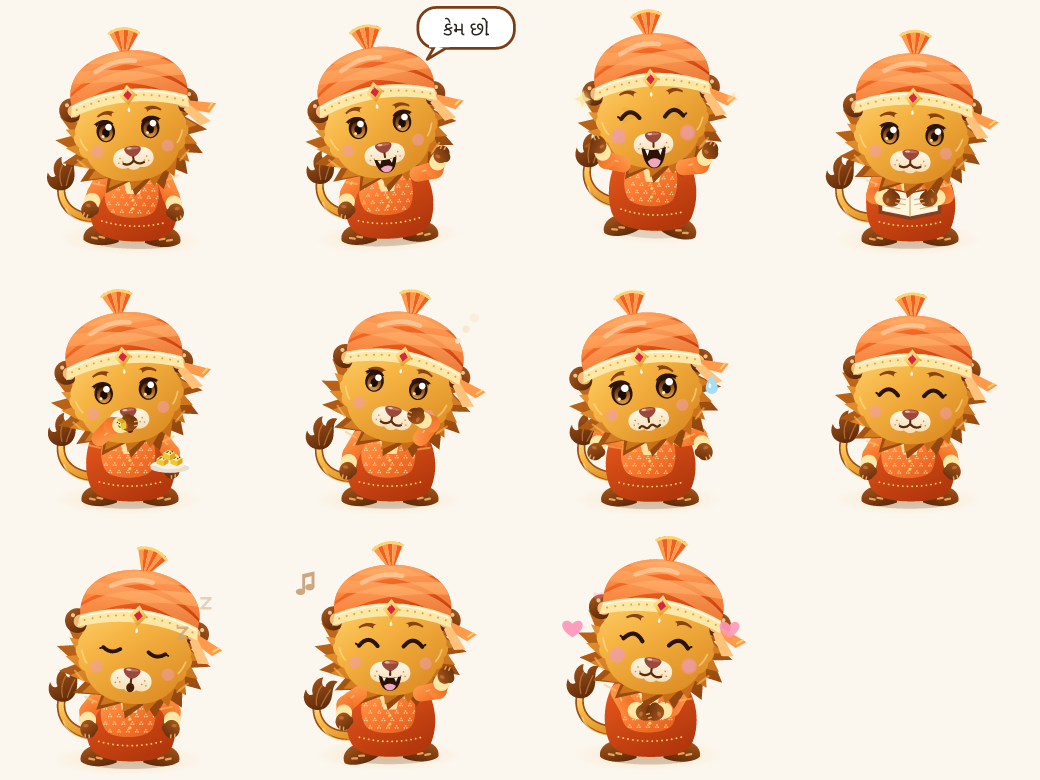
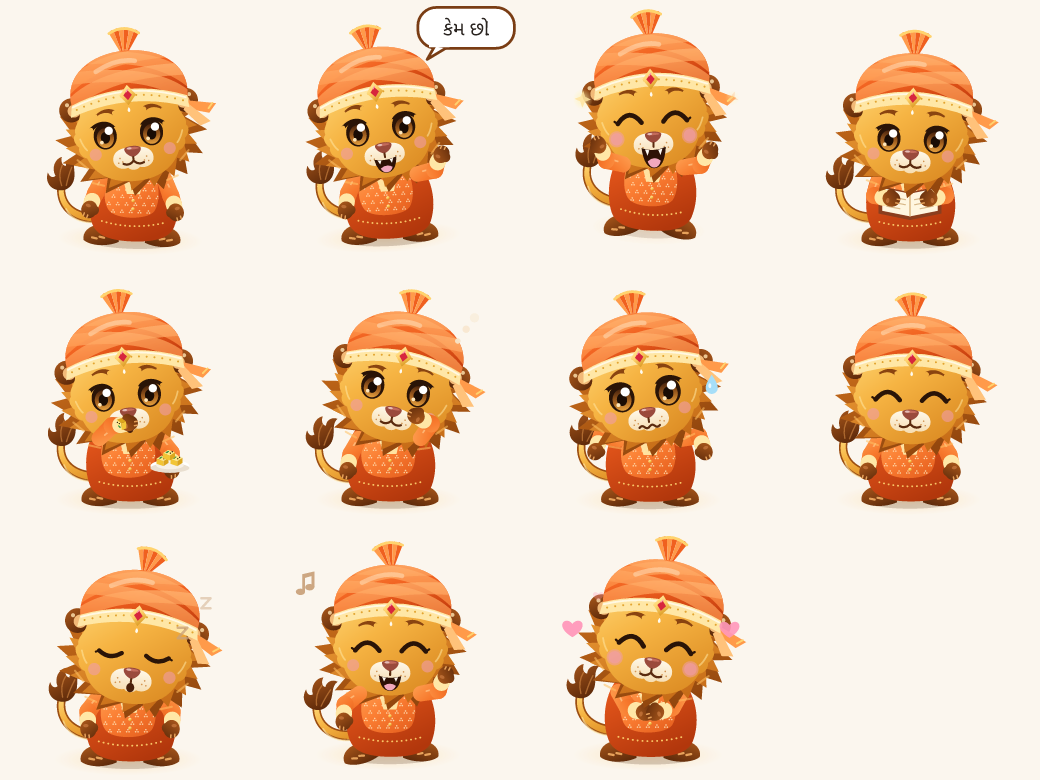
Give Kesar bigger eyes and a real wink
The beads are a quarter larger and sit a little lower on the face, with
the brows and blush moved to make room. Cheer now cuts cleanly between
the happy and squeezed eyes instead of fading through both, and the wave
wink closes into a happy arc rather than squashing the eye flat.

diff --git a/src/mascot/rig.ts b/src/mascot/rig.ts
@@ -260,18 +260,19 @@ const patches = `
     ${dots([[114, 142], [117, 146.5], [112, 147.5], [146, 142], [143, 146.5], [148, 147.5]], 1, '#D39552')}
   </g>`;
 
-const blush = `<g fill="#F09BB0" opacity=".55"><circle cx="92" cy="133" r="6.5"/><circle cx="168" cy="133" r="6.5"/></g>`;
-const blushHot = `<g fill="#F09BB0" opacity=".5"><circle cx="92" cy="133" r="8.5"/><circle cx="168" cy="133" r="8.5"/></g>`;
+const blush = `<g fill="#F09BB0" opacity=".55"><circle cx="90" cy="136" r="6.5"/><circle cx="170" cy="136" r="6.5"/></g>`;
+const blushHot = `<g fill="#F09BB0" opacity=".5"><circle cx="90" cy="136" r="8.5"/><circle cx="170" cy="136" r="8.5"/></g>`;
 
 // Tufted brows: thick at the inner end, tapering out.
-const browL = `<path d="${taper([113.5, 95], [108, 91], [101.5, 91], [95, 96], 5.4, 1.8)}" fill="${BROW}"/>`;
+const browL = `<path d="${taper([114, 93], [108.5, 89], [101.5, 89], [94.5, 94], 5.6, 1.9)}" fill="${BROW}"/>`;
 const browR = mirror(browL);
 
 // Bead eyes: a dark rim, an amber iris that warms toward the bottom, a dark
 // pupil, two highlights, and an upper lid that thickens toward the outer corner.
 const LID = taper([-8.6, -6.4], [-4.2, -12.9], [5, -12.9], [11.6, -6.6], 2, 3.4);
+const EYE_Y = 116;
 const bead = (x: number, outer: number) => `
-  <g transform="translate(${x} 111)">
+  <g transform="translate(${x} ${EYE_Y}) scale(1.25)">
     <ellipse rx="10" ry="11.5" fill="${EYE}"/>
     <ellipse cy="1.6" rx="7.4" ry="8.6" fill="url(#k-iris)"/>
     <ellipse cy="1.4" rx="4" ry="5" fill="#1A0C04"/>
@@ -281,11 +282,13 @@ const bead = (x: number, outer: number) => `
   </g>`;
 
 const happyEyes =
-  stroke('M96 115Q106 102 116 115M144 115Q154 102 164 115', EYE, 4.4) + stroke('M96 115l-3.4-2.2M164 115l3.4-2.2', EYE, 2.2);
+  stroke('M92 120Q105 103 118 120M142 120Q155 103 168 120', EYE, 5) + stroke('M92 120l-3.6-2.4M168 120l3.6-2.4', EYE, 2.4);
 const closedEyes =
-  stroke('M97 112Q106 119 115 112M145 112Q154 119 163 112', EYE, 4) + stroke('M97 112l-3.2 1.4M163 112l3.2 1.4', EYE, 2);
+  stroke('M93 116Q105 125 117 116M143 116Q155 125 167 116', EYE, 4.6) + stroke('M93 116l-3.4 1.6M167 116l3.4 1.6', EYE, 2.2);
 // Squeezed shut with glee: > <
-const squeezeEyes = stroke('M99 104.5L111 111L99 117.5M161 104.5L149 111L161 117.5', EYE, 4.4);
+const squeezeEyes = stroke('M98 107.5L113 116L98 124.5M162 107.5L147 116L162 124.5', EYE, 5);
+// A happy arc for the winking eye.
+const winkR = stroke('M143 119Q155 105 167 119', EYE, 5) + stroke('M167 119l3.6-2.4', EYE, 2.4);
 
 // A broad, rosy lion nose and a Y-shaped mouth; the grin shows two little fangs.
 const nose = `
@@ -433,14 +436,15 @@ export const RIG: RigNode = {
                 { id: 'patches', svg: patches },
                 { id: 'blush', svg: blush },
                 { id: 'blushHot', svg: blushHot, opacity: 0 },
-                { id: 'browL', pivot: [104, 93], svg: browL },
-                { id: 'browR', pivot: [156, 93], svg: browR },
+                { id: 'browL', pivot: [104, 91], svg: browL },
+                { id: 'browR', pivot: [156, 91], svg: browR },
                 {
                   id: 'gaze',
                   when: { eyes: ['open'] },
                   children: [
-                    { id: 'eyeL', pivot: [106, 111], svg: bead(106, -1) },
-                    { id: 'eyeR', pivot: [154, 111], svg: bead(154, 1) },
+                    { id: 'eyeL', pivot: [105, 116], svg: bead(105, -1) },
+                    { id: 'eyeR', pivot: [155, 116], svg: bead(155, 1) },
+                    { id: 'winkR', pivot: [155, 116], svg: winkR, opacity: 0 },
                   ],
                 },
                 { id: 'eyesHappy', svg: happyEyes, when: { eyes: ['happy'] } },
@@ -594,6 +598,23 @@ const rise = (i: number, dist = 26, drift = 6): Track => ({
 
 const CHEER_AT = [0, 0.08, 0.15, 0.28, 0.39, 0.49, 0.59, 0.66, 1];
 
+// Hold a value and cut straight to the next one at each switch time, no fade.
+function cut(first: number, switches: [number, number][]): { at: number[]; opacity: number[] } {
+  const at = [0];
+  const opacity = [first];
+  let cur = first;
+  for (const [t, v] of switches) {
+    at.push(t - 0.004, t);
+    opacity.push(cur, v);
+    cur = v;
+  }
+  at.push(1);
+  opacity.push(cur);
+  return { at, opacity };
+}
+const SQUEEZE: [number, number][] = [[0.11, 1], [0.21, 0], [0.36, 1], [0.45, 0], [0.55, 1], [0.63, 0]];
+const flip = (sw: [number, number][]): [number, number][] => sw.map(([t, v]) => [t, 1 - v]);
+
 // Pip's idle: a curious head tilt that holds, a glance, a weight shift.
 const IDLE_AT = [0, 0.2, 0.29, 0.39, 0.48, 0.57, 0.66, 0.76, 1];
 
@@ -633,7 +654,8 @@ export const CLIPS: Record<Pose, Clip> = {
       ),
       root: { at: [0, 0.18, 0.78, 0.88, 1], y: [0, -3, -3, 1, 0], rotate: [0, -3, -3, 1, 0] },
       head: { at: [0, 0.24, 0.76, 1], rotate: [0, -7, -7, 0] },
-      eyeR: { at: [0, 0.28, 0.34, 0.46, 0.52, 1], sy: [1, 1, 0.08, 0.08, 1, 1] },
+      eyeR: { at: [0, 0.27, 0.31, 0.314, 0.486, 0.49, 0.53, 1], sy: [1, 1, 0.1, 0.1, 0.1, 0.1, 1, 1], opacity: [1, 1, 1, 0, 0, 1, 1, 1] },
+      winkR: { at: [0, 0.31, 0.314, 0.486, 0.49, 1], opacity: [0, 0, 1, 1, 0, 0] },
       browR: { at: [0, 0.28, 0.34, 0.46, 0.52, 1], y: [0, 0, 2.5, 2.5, 0, 0], rotate: [0, 0, 6, 6, 0, 0] },
       browL: { at: [0, 0.2, 0.8, 1], y: [0, -2.5, -2.5, 0] },
       tail: { rotate: [-8, 12, -8, 12, -8, 12, -8] },
@@ -665,12 +687,12 @@ export const CLIPS: Record<Pose, Clip> = {
       legR: { at: [0, 0.15, 0.28, 0.4, 0.49, 0.66, 1], rotate: [0, 0, -18, 0, 10, 0, 0], y: [0, 0, -3, 0, 0, 0, 0] },
       // The face acts the jump: squeezed shut on the crouch and each landing,
       // eyes and grin wide open at the top, brows up, cheeks flushing.
-      eyesHappy: { at: CHEER_AT, opacity: [1, 1, 0, 1, 0, 1, 0, 1, 1] },
-      eyesSqueeze: { at: CHEER_AT, opacity: [0, 0, 1, 0, 1, 0, 1, 0, 0] },
+      eyesHappy: cut(1, flip(SQUEEZE)),
+      eyesSqueeze: cut(0, SQUEEZE),
       mouthOpen: { at: CHEER_AT, sx: [1, 1, 0.8, 1.16, 0.9, 1.12, 0.9, 1, 1], sy: [1, 1, 0.55, 1.5, 0.8, 1.38, 0.8, 1, 1] },
       blushHot: { at: CHEER_AT, opacity: [0, 0, 0.5, 1, 0.7, 1, 0.7, 0.3, 0] },
-      browL: { at: CHEER_AT, y: [0, 0, 2, -6, -1, -5, 0, 0, 0], rotate: [0, 0, -4, 8, 0, 6, 0, 0, 0] },
-      browR: { at: CHEER_AT, y: [0, 0, 2, -6, -1, -5, 0, 0, 0], rotate: [0, 0, 4, -8, 0, -6, 0, 0, 0] },
+      browL: { at: CHEER_AT, y: [0, 0, 2, -4, -1, -3.5, 0, 0, 0], rotate: [0, 0, -4, 8, 0, 6, 0, 0, 0] },
+      browR: { at: CHEER_AT, y: [0, 0, 2, -4, -1, -3.5, 0, 0, 0], rotate: [0, 0, 4, -8, 0, -6, 0, 0, 0] },
       tail: { rotate: [-8, 12, -8, 12, -8, 12, -8] },
       tuft: { rotate: [10, -12, 10, -12, 10, -12, 10] },
       ties: { rotate: [-6, 8, -6, 8, -6, 8, -6, 8, -6, 8, -6] },
@@ -759,8 +781,8 @@ export const CLIPS: Record<Pose, Clip> = {
       ...reach('R', [REST_R, mx([70, 176]), mx([72, 180]), mx([82, 196]), REST_R], [0, 0.1, 0.3, 0.8, 1]),
       root: { at: [0, 0.1, 0.3, 1], y: [0, 3, 0, 0], sx: [1, 1.05, 1, 1], sy: [1, 0.94, 1, 1] },
       head: { at: [0, 0.1, 0.28, 0.44, 0.6, 0.76, 1], rotate: [0, -3, -9, 7, -4, 2, 0], y: [0, 2, 1, 0, 0, 0, 0] },
-      eyeL: { at: [0, 0.08, 0.7, 1], sx: [1, 1.14, 1.08, 1], sy: [1, 1.14, 1.08, 1] },
-      eyeR: { at: [0, 0.08, 0.7, 1], sx: [1, 1.14, 1.08, 1], sy: [1, 1.14, 1.08, 1] },
+      eyeL: { at: [0, 0.08, 0.7, 1], sx: [1, 1.1, 1.06, 1], sy: [1, 1.1, 1.06, 1] },
+      eyeR: { at: [0, 0.08, 0.7, 1], sx: [1, 1.1, 1.06, 1], sy: [1, 1.1, 1.06, 1] },
       browL: { at: [0, 0.08, 0.8, 1], rotate: [0, -16, -14, 0], y: [0, -2, -2, 0] },
       browR: { at: [0, 0.08, 0.8, 1], rotate: [0, 16, 14, 0], y: [0, -2, -2, 0] },
       earL: { at: [0, 0.1, 0.8, 1], rotate: [0, -22, -16, 0] },
